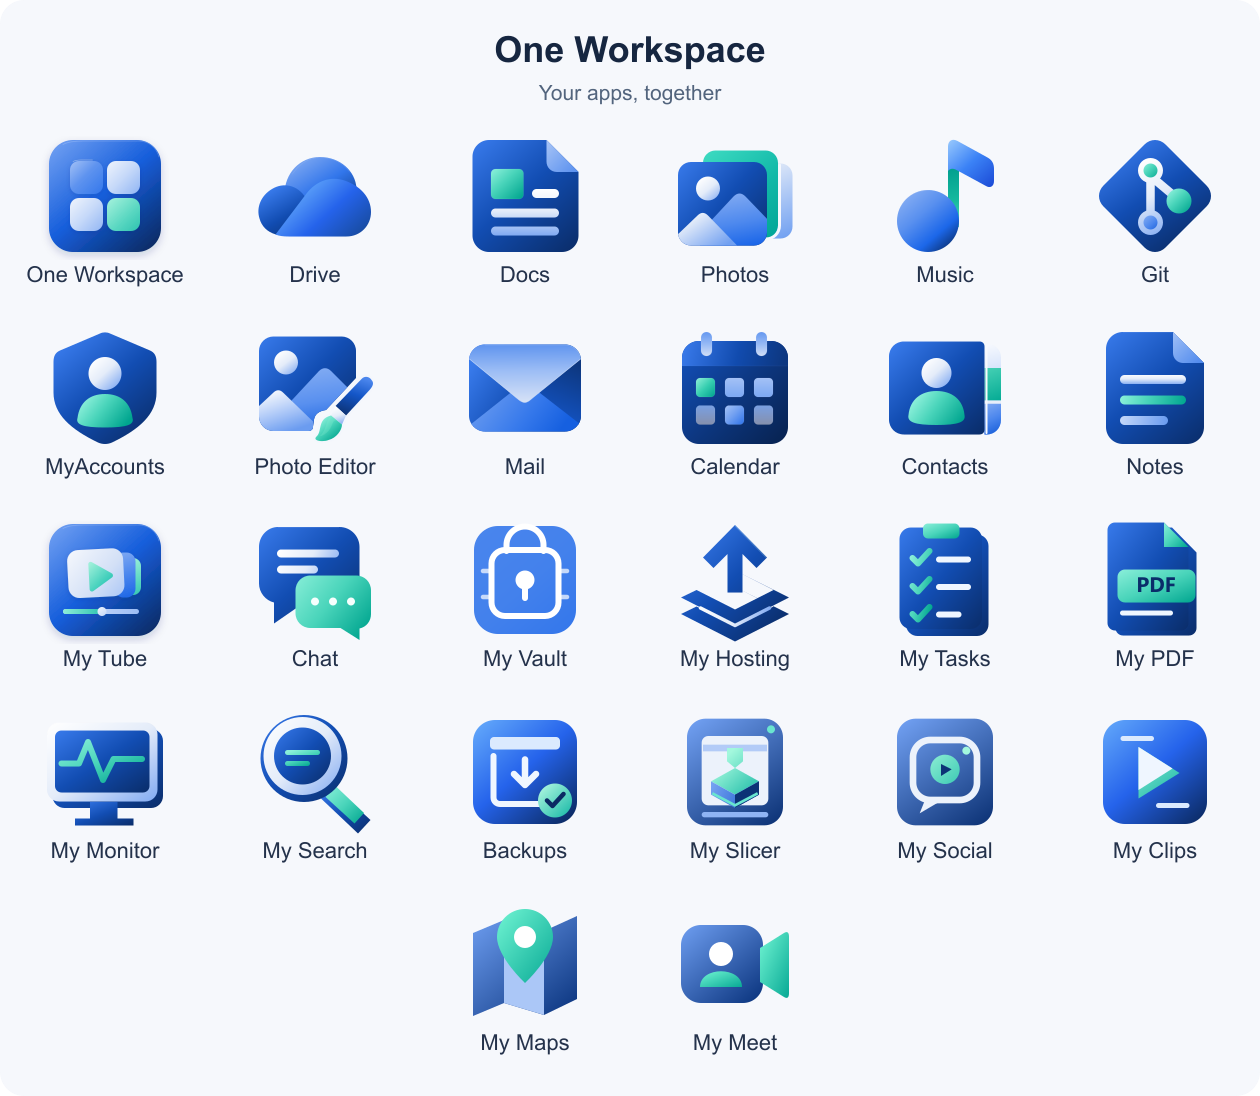
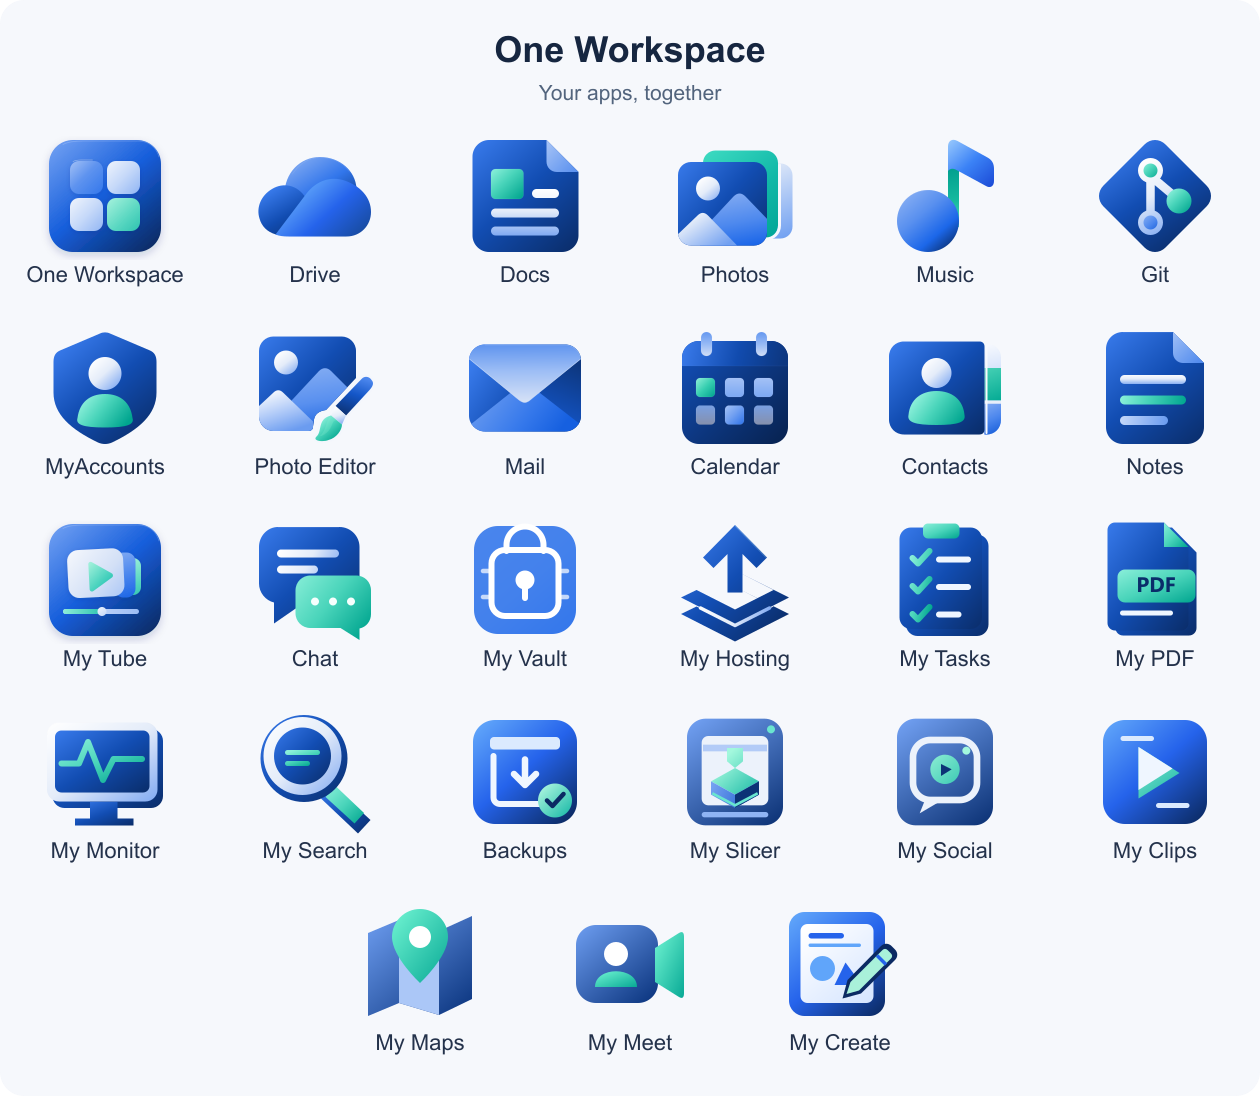
Integrate My Create with verified native imports and Workspace installation [skip ci]

Changed region(s): [[0.2786, 0.8066, 0.7119, 0.9617]]

diff --git a/docs/branding/index.html b/docs/branding/index.html
@@ -2,6 +2,6 @@
 <html lang="en"><head><meta charset="utf-8"><meta name="viewport" content="width=device-width,initial-scale=1"><title>One Workspace logos</title><link rel="icon" href="../../internal/branding/icons/one_workspace.svg"><style>
 *{box-sizing:border-box}body{margin:0;background:#f4f6fb;color:#17233b;font:16px system-ui,sans-serif}main{max-width:1180px;margin:40px auto;padding:0 26px}header{display:flex;gap:20px;align-items:center;margin-bottom:32px}header img{width:72px;height:72px}h1{font-size:32px;margin:0 0 8px;letter-spacing:-1px}p{margin:0;color:#65718a}.grid{display:grid;grid-template-columns:repeat(4,1fr);gap:20px}article{background:white;border:1px solid #dfe5ef;border-radius:18px;overflow:hidden}h2{font-size:16px;margin:20px}.samples{display:flex;align-items:center;justify-content:center;gap:18px;height:136px;background:repeating-conic-gradient(#edf0f6 0% 25%,white 0% 50%) 50%/20px 20px}.samples img{width:80px;height:80px}.dark{background:#11182a}.small{display:flex;align-items:center;gap:14px;padding:20px;color:#7b879b;font-size:12px}.small img{flex:none}@media(max-width:850px){.grid{grid-template-columns:repeat(2,1fr)}}@media(max-width:450px){.grid{grid-template-columns:1fr}}
 </style></head><body><main><header><img src="../../internal/branding/icons/one_workspace.svg" alt=""><div><h1>One Workspace</h1><p>The complete app collection · shared blue artwork</p></div></header><div class="grid" id="logos"></div></main><script>
-const apps=[["one_workspace","One Workspace"],["my_drive","Drive"],["my_office","Docs"],["my_photos","Photos"],["my_music","Music"],["my_git","Git"],["my_accounts","MyAccounts"],["photo_editor","Photo Editor"],["my_mail","Mail"],["my_calendar","Calendar"],["my_contacts","Contacts"],["my_notes","Notes"],["my_tube","My Tube"],["my_chat","Chat"],["my_vault","My Vault"],["my_hosting","My Hosting"],["my_tasks","My Tasks"],["my_pdf","My PDF"],["my_monitor","My Monitor"],["my_search","My Search"],["backups","Backups"],["my_slicer","My Slicer"],["my_social","My Social"],["my_clips","My Clips"],["my_maps","My Maps"],["my_meet","My Meet"]];
+const apps=[["one_workspace","One Workspace"],["my_drive","Drive"],["my_office","Docs"],["my_photos","Photos"],["my_music","Music"],["my_git","Git"],["my_accounts","MyAccounts"],["photo_editor","Photo Editor"],["my_mail","Mail"],["my_calendar","Calendar"],["my_contacts","Contacts"],["my_notes","Notes"],["my_tube","My Tube"],["my_chat","Chat"],["my_vault","My Vault"],["my_hosting","My Hosting"],["my_tasks","My Tasks"],["my_pdf","My PDF"],["my_monitor","My Monitor"],["my_search","My Search"],["backups","Backups"],["my_slicer","My Slicer"],["my_social","My Social"],["my_clips","My Clips"],["my_maps","My Maps"],["my_meet","My Meet"],["my_create","My Create"]];
 document.querySelector('#logos').innerHTML=apps.map(([file,name])=>`<article><h2>${name}</h2><div class="samples"><img src="../../internal/branding/icons/${file}.svg" alt="${name}"></div><div class="samples dark"><img src="../../internal/branding/icons/${file}.svg" alt=""></div><div class="small"><img src="${file}-32.png" width="16" height="16" alt=""><img src="${file}-32.png" width="24" height="24" alt=""><img src="${file}-32.png" width="32" height="32" alt=""><span>16 · 24 · 32</span></div></article>`).join('');
 </script></body></html>

diff --git a/internal/distribution/updates_test.go b/internal/distribution/updates_test.go
@@ -139,7 +139,7 @@ func TestIndependentContractCannotReplaceOtherAppsOrEscapeArchive(t *testing.T) 
 	var releases []Release
 	json.Unmarshal(tr["https://api.github.com/repos/oneworkspacestudio/notes/releases?per_page=100"], &releases)
 	r := releases[0]
-	g := updateGroups[8]
+	g := updateGroup{}; for _, candidate := range updateGroups { if candidate.id == "notes" { g=candidate } }
 	for _, mutate := range []func(*AppUpdateManifest){func(m *AppUpdateManifest) { m.Repository = "someone/notes" }, func(m *AppUpdateManifest) { m.Apps[0].ID = "accounts" }, func(m *AppUpdateManifest) {
 		p := m.Packages["notes"]
 		p.File = "MyAccounts.exe"
@@ -235,7 +235,13 @@ func TestPublisherContractRoundTripAndCustomExtensionOwnership(t *testing.T) {
 	raw, _ := json.Marshal(generated)
 	var releases []Release
 	json.Unmarshal(tr["https://api.github.com/repos/oneworkspacestudio/notes/releases?per_page=100"], &releases)
-	ch, e := manifestChoice(updateGroups[8], current, generated.Repository, releases[0], raw)
+	var notesGroup updateGroup
+	for _, group := range updateGroups {
+		if group.id == "notes" {
+			notesGroup = group
+		}
+	}
+	ch, e := manifestChoice(notesGroup, current, generated.Repository, releases[0], raw)
 	if e != nil {
 		t.Fatal(e)
 	}

diff --git a/internal/branding/branding.go b/internal/branding/branding.go
@@ -75,7 +75,7 @@ func Icon(app string) string {
 		"backups": "backups", "calendar": "my_calendar", "contacts": "my_contacts", "drive": "my_drive", "docs": "my_office", "office": "my_office",
 		"photos": "my_photos", "gitea": "my_git", "git": "my_git",
 		"music": "my_music", "studio": "photo_editor", "photo-editor": "photo_editor",
-		"maps": "my_maps", "meet": "my_meet", "clips": "my_clips", "social": "my_social", "slicer": "my_slicer", "tasks": "my_tasks", "pdf": "my_pdf", "monitor": "my_monitor", "search": "my_search", "hosting": "my_hosting", "chat": "my_chat", "mail": "my_mail", "accounts": "my_accounts", "myaccounts": "my_accounts", "notes": "my_notes", "my-tube": "my_tube", "vault": "my_vault",
+		"create": "my_create", "maps": "my_maps", "meet": "my_meet", "clips": "my_clips", "social": "my_social", "slicer": "my_slicer", "tasks": "my_tasks", "pdf": "my_pdf", "monitor": "my_monitor", "search": "my_search", "hosting": "my_hosting", "chat": "my_chat", "mail": "my_mail", "accounts": "my_accounts", "myaccounts": "my_accounts", "notes": "my_notes", "my-tube": "my_tube", "vault": "my_vault",
 	}[app]
 	if name == "" {
 		name = "one_workspace"

diff --git a/internal/suite/seamless.go b/internal/suite/seamless.go
@@ -22,6 +22,7 @@ type appSignIn struct {
 
 var suiteSignIns = []appSignIn{
 	{"maps", "My Maps", "/maps", "/api/me", "/maps/auth/login", "/maps/auth/logout", []string{"maps_session"}},
+	{"create", "My Create", "/create", "/api/me", "/create/auth/login", "/create/auth/logout", []string{"create_session"}},
 	{"meet", "My Meet", "/meet", "/api/me", "/meet/auth/login", "/meet/auth/logout", []string{"meet_session"}},
 	{"clips", "My Clips", "/clips", "/api/me", "/clips/auth/login", "/clips/auth/logout", []string{"clips_session"}},
 	{"social", "My Social", "/social", "/api/me", "/social/auth/login", "/social/auth/logout", []string{"social_session"}},

diff --git a/internal/suite/runtime_storage.go b/internal/suite/runtime_storage.go
@@ -10,7 +10,7 @@ func runtimeTemp(c Config, app string) string { return filepath.Join(c.Data, "ru
 
 func appWorkingDir(c Config, app string) string {
 	switch app {
-	case "maps", "meet", "clips", "social", "tasks", "pdf", "monitor", "search", "accounts", "drive", "photos", "gitea", "music", "mail", "calendar", "contacts", "notes", "my-tube", "chat":
+	case "create", "maps", "meet", "clips", "social", "tasks", "pdf", "monitor", "search", "accounts", "drive", "photos", "gitea", "music", "mail", "calendar", "contacts", "notes", "my-tube", "chat":
 		return filepath.Join(c.Data, app)
 	case "vault":
 		return filepath.Join(c.Data, "my-vault")

diff --git a/internal/distribution/updates.go b/internal/distribution/updates.go
@@ -83,6 +83,7 @@ type updateGroup struct {
 
 var updateGroups = []updateGroup{
 	{"maps", "My Maps", "my-maps", []string{"maps"}},
+	{"create", "My Create", "my-create", []string{"create"}},
 	{"meet", "My Meet", "my-meet", []string{"meet"}},
 
 	{"workspace", "One Workspace", "one-workspace", nil},
@@ -256,7 +257,7 @@ func suiteUpdateGroups(latest catalog.Catalog) []updateGroup {
 	return groups
 }
 func updatePackageOwner(id string) string {
-	for _, app := range []string{"maps", "meet"} {
+	for _, app := range []string{"create", "maps", "meet"} {
 		if id == app || strings.HasPrefix(id, app+"-") {
 			return app
 		}

diff --git a/internal/suite/navigation.go b/internal/suite/navigation.go
@@ -98,7 +98,7 @@ func clearAppCookies(w http.ResponseWriter, r *http.Request, secure bool) {
 		"access_token_cookie": {"/", "/music/"}, "csrf_access_token": {"/", "/music/"}, "swingmusic_oidc": {"/", "/music/"},
 		"workspace_gitea": {"/", "/git", "/git/"},
 	}
-	for _, id := range []string{"maps", "meet", "clips", "social", "slicer", "tasks", "pdf", "monitor", "search"} {
+	for _, id := range []string{"create", "maps", "meet", "clips", "social", "slicer", "tasks", "pdf", "monitor", "search"} {
 		names[id+"_session"] = []string{"/", "/" + id + "/"}
 		names[id+"_login"] = []string{"/", "/" + id + "/"}
 	}

diff --git a/internal/suite/four_apps.go b/internal/suite/four_apps.go
@@ -16,7 +16,7 @@ import (
 )
 
 func foundationApp(id string) bool {
-	return id == "maps" || id == "meet" || id == "clips" || id == "social" || id == "slicer" || id == "tasks" || id == "pdf" || id == "monitor" || id == "search"
+	return id == "create" || id == "maps" || id == "meet" || id == "clips" || id == "social" || id == "slicer" || id == "tasks" || id == "pdf" || id == "monitor" || id == "search"
 }
 func monitorCapability(secret string) string {
 	if secret == "" {

diff --git a/internal/suite/config.go b/internal/suite/config.go
@@ -165,6 +165,8 @@ func NewConfig(r Request, c catalog.Catalog) Config {
 			app.Port = r.Port + 16
 		case "maps":
 			app.Port = r.Port + 25
+		case "create":
+			app.Port = r.Port + 27
 		case "meet":
 			app.Port = r.Port + 26
 		case "clips":

diff --git a/agents/history/2026-10-21-my-create-compacted.md b/agents/history/2026-10-21-my-create-compacted.md
@@ -1,0 +1,37 @@
+# My Create / Workspace57
+
+User authorized implementation, GitHub publication, local installation and release.
+New MyCreate.exe uses apphost/OIDC, NTFS private data, embedded AUI/Fabric editor,
+SVG/PPTX/PDF/PSD/raster adapters, immutable source/revisions, comparison, packs,
+local Windows OCR and browser-user My Drive access. Official Canva boundary and
+format limits are in app docs/RESEARCH.md; no companion or catalogue scraping.
+
+Rebased this checkout on eea959c (verified installed blue-branding56). Added
+create to port mapping (base+27), sessions, navigation, runtime storage, package
+ownership, updater group, organization pin, installer scripts and shared blue
+branding. All27 logo directory entries regenerated and visually checked.
+
+App source/release: oneworkspacestudio/my-create, v0.1.0-preview.1, compiled
+2687e8a. Separate my-create-templates v1.0.0 contains three original CC0 packs,
+no private/user-imported content. GitHub Actions disabled. Public asset hashes
+are checked against local release outputs before publication/install.
+
+Tests: app Go/API, frontend build/unit/audit, ten real-format fixture/pack checks,
+native executable login/edit/save/reopen/undo/export/mobile/OCR. Suite targeted
+Go suites (suite/distribution/branding/apphost) pass. Go1.27 t.TempDir honours
+GOTMPDIR, so use C:/Projects/.cache/my-create-20261020/suite-tests for private
+fixtures; I is exFAT. Fixed a pre-existing index-based updater test made brittle
+by inserting the new group; tests now look up Notes by ID.
+
+Workspace57 bundle has25 apps/124 hash-verified payloads. All24 existing app
+contracts, versions and executable bytes are unchanged from verified local56.
+Synthetic56-to57 normal backed-up upgrade passed: retained identity/paths/app
+selection and portal sign-in; Create provisioned at custom base+27; MyAccounts
+owner sign-in, template save, same-subject Drive new-copy write and content-hash
+icon URL all verified. Processes stopped, owner never used as a fixture.
+
+Artifacts/build tools: I:/Projects/tooling/my-create-20261020. Synthetic private
+roots: C:/Projects/.cache/my-create-20261020. Powershell startup stalled midway;
+explicit C Node/Python executables continued successfully. I remains readable.
+Final suite publication and owner56-to57 update receipts still need recording.
+Use normal backed-up updater; preserve current owner data and newest rollback.

diff --git a/docs/MY-CREATE.md b/docs/MY-CREATE.md
@@ -1,0 +1,26 @@
+# My Create
+
+My Create is a local design editor for text, shapes, images and multiple pages.
+It imports user-provided SVG, PowerPoint, PDF, images and supported Photoshop
+layers, preserves source files, and reports conversion losses before editing.
+
+The application uses the shared MyAccounts identity, Workspace navigation and
+normal update/backup contracts. Default route: `/create`; default port: 9017
+(base port + 27). Private data is stored in the dedicated `create` data folder.
+Drive copies use the current user's own Drive session and permissions.
+
+Source: [oneworkspacestudio/my-create](https://github.com/oneworkspacestudio/my-create).
+Template packs: [my-create-templates](https://github.com/oneworkspacestudio/my-create-templates).
+
+Imported PDF objects are reconstructed drawing operations, not original design
+layers. Pixel images contain no native editable text. Optional Windows OCR
+creates review-required inferred text and does not erase original pixels.
+PPTX preview is reconstructed; it is not an independent PowerPoint renderer.
+Canva links/private catalogue exports are not supported. Use files exported by
+their authorized owner. No mandatory AI download or paid cloud service.
+
+My Create 0.1.0-preview.1 integrates with Workspace57. The synthetic upgrade
+verified retained MyAccounts sign-in, project saving, same-subject My Drive copies
+and served icon hashes. See docs/evidence/my-create-native-20261021.json.
+The first preview is unsigned; advanced AI reconstruction, a direct Canva
+companion and full complex-effect fidelity are not included.

diff --git a/README.md b/README.md
@@ -6,7 +6,7 @@
 </div>
 
 <!-- app-overview:start -->
-![The complete One Workspace app collection](docs/branding/app-suite-f6de3110.png)
+![The complete One Workspace app collection](docs/branding/app-suite-96007a8d.png)
 <!-- app-overview:end -->
 
 ## A place for your everyday work
@@ -155,6 +155,11 @@ Choose an app name to learn more. The full collection is listed below, including
       <td align="center" width="56"><img src="internal/branding/icons/my_meet.svg" alt="" width="40" height="40"></td>
       <td><a href="https://github.com/oneworkspacestudio/my-meet"><strong>My Meet</strong></a></td>
       <td>Host video meetings, share your screen and chat.</td>
+    </tr>
+    <tr>
+      <td align="center" width="56"><img src="internal/branding/icons/my_create.svg" alt="" width="40" height="40"></td>
+      <td><a href="https://github.com/oneworkspacestudio/my-create"><strong>My Create</strong></a></td>
+      <td>Create designs and edit imported text, shapes, pictures and pages.</td>
     </tr>
   </tbody>
 </table>
